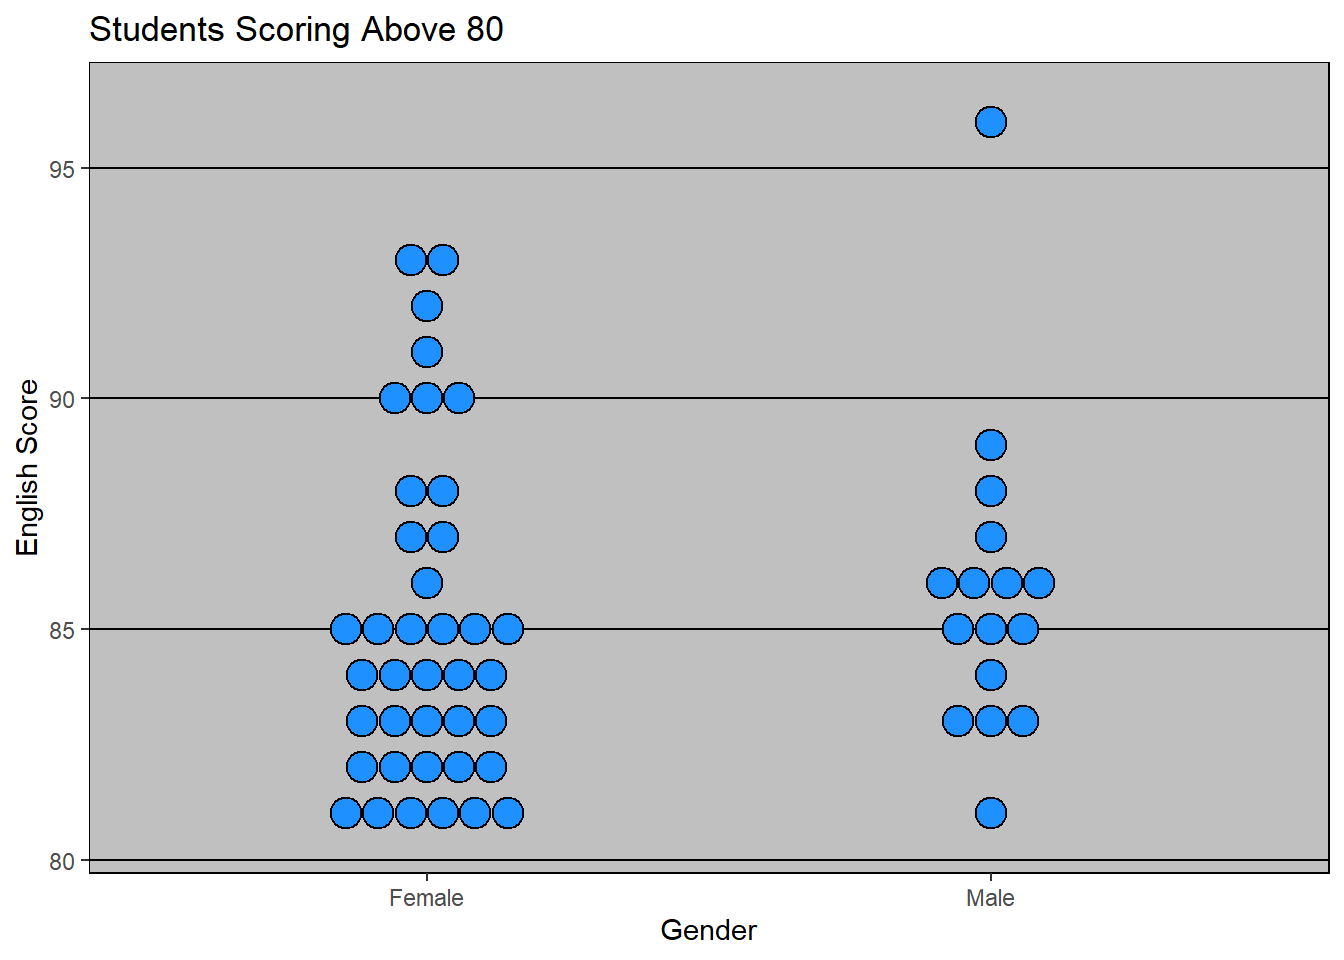
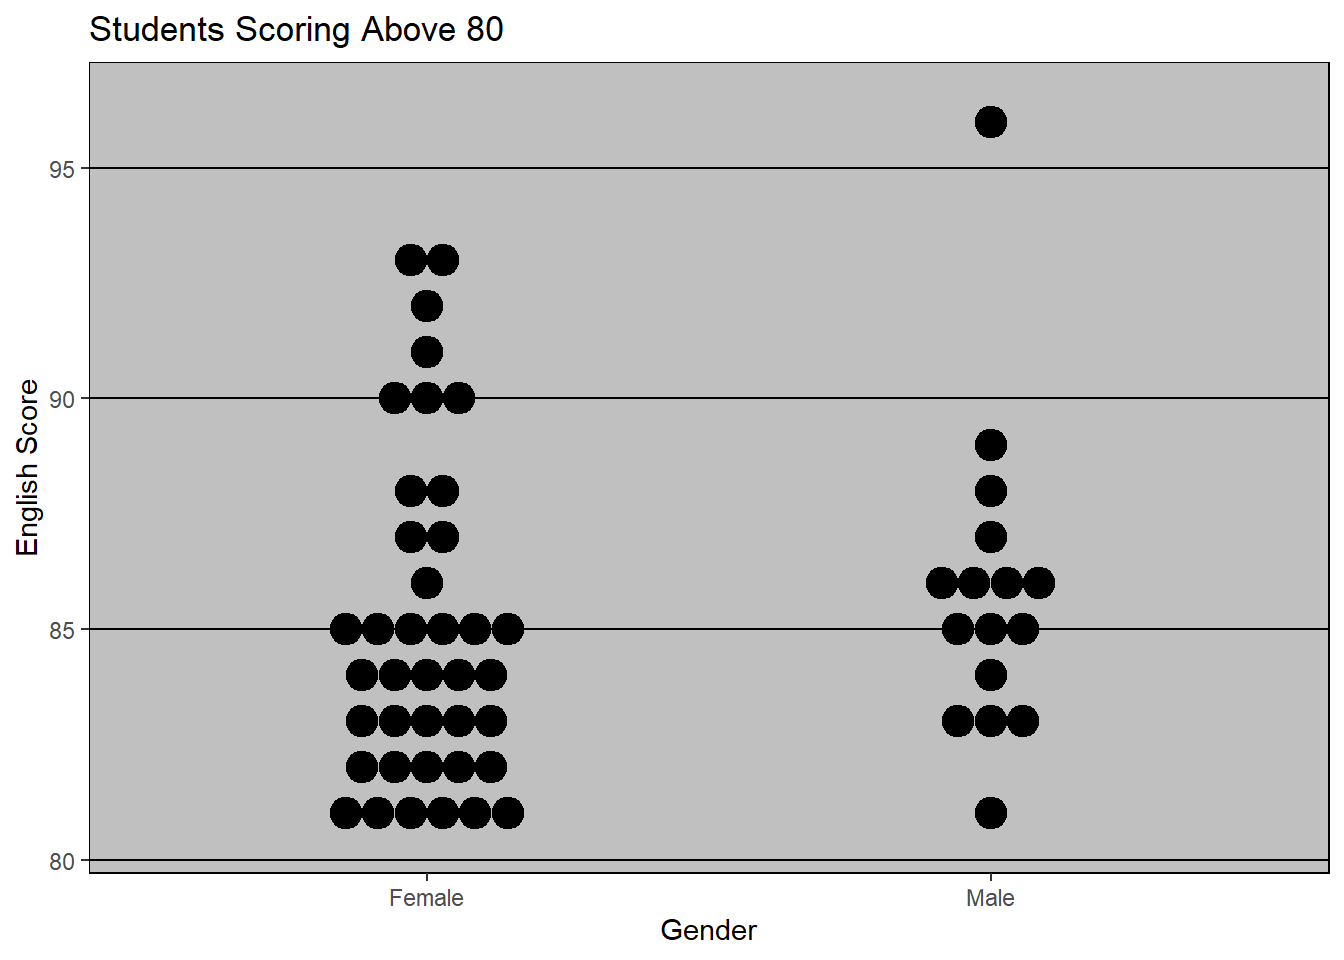
Commit after editing hands-on exercise 2

diff --git a/_site/Hands-on_Ex/Hands-on_Ex02/Hands-on_Ex02.html b/_site/Hands-on_Ex/Hands-on_Ex02/Hands-on_Ex02.html
@@ -840,7 +840,7 @@ increasing max.overlaps</code></pre>
 </section>
 <section id="dot-plot" class="level2">
 <h2 class="anchored" data-anchor-id="dot-plot">7.3. Dot Plot</h2>
-<p>I will be plotting a dot plot to compare the results between the female and male students who scored well (above 80) in English and Math. Based on using the <code>plus sign patchwork</code>package, I am able to clearly see the number of students that scored above 80 and based on the figure, it can be observed that Math has more students that scored above 80. The number of dots represent the number of students that scored above 80 for each subject respectively.</p>
+<p>I will be plotting a dot plot to compare the results between the female and male students who scored well (above 80) in English and Math. Based on using the <code>+ sign patchwork</code>package, I am able to clearly see the number of students that scored above 80 and based on the figure, it can be observed that Math has more students that scored above 80. The number of dots represent the number of students that scored above 80 for each subject respectively.</p>
 <div class="tabset-margin-container"></div><div class="panel-tabset">
 <ul class="nav nav-tabs" role="tablist"><li class="nav-item" role="presentation"><a class="nav-link active" id="tabset-7-1-tab" data-bs-toggle="tab" data-bs-target="#tabset-7-1" role="tab" aria-controls="tabset-7-1" aria-selected="true"><strong>Default Dot Plots</strong></a></li><li class="nav-item" role="presentation"><a class="nav-link" id="tabset-7-2-tab" data-bs-toggle="tab" data-bs-target="#tabset-7-2" role="tab" aria-controls="tabset-7-2" aria-selected="false">patchwork (using + sign)</a></li></ul>
 <div class="tab-content">
@@ -852,13 +852,12 @@ increasing max.overlaps</code></pre>
 <span id="cb35-4"><a href="#cb35-4" aria-hidden="true" tabindex="-1"></a>    <span class="at">binaxis =</span> <span class="st">'y'</span>, </span>
 <span id="cb35-5"><a href="#cb35-5" aria-hidden="true" tabindex="-1"></a>    <span class="at">stackdir =</span> <span class="st">'center'</span>, </span>
 <span id="cb35-6"><a href="#cb35-6" aria-hidden="true" tabindex="-1"></a>    <span class="at">dotsize =</span> <span class="fl">0.7</span>, </span>
-<span id="cb35-7"><a href="#cb35-7" aria-hidden="true" tabindex="-1"></a>    <span class="at">binwidth =</span> <span class="dv">1</span>,</span>
-<span id="cb35-8"><a href="#cb35-8" aria-hidden="true" tabindex="-1"></a>    <span class="at">fill =</span> <span class="st">"dodgerblue"</span>) <span class="sc">+</span></span>
-<span id="cb35-9"><a href="#cb35-9" aria-hidden="true" tabindex="-1"></a>  <span class="fu">labs</span>(<span class="at">title =</span> <span class="st">"Students Scoring Above 80"</span>,</span>
-<span id="cb35-10"><a href="#cb35-10" aria-hidden="true" tabindex="-1"></a>       <span class="at">x =</span> <span class="st">"Gender"</span>,</span>
-<span id="cb35-11"><a href="#cb35-11" aria-hidden="true" tabindex="-1"></a>       <span class="at">y =</span> <span class="st">"English Score"</span>) <span class="sc">+</span></span>
-<span id="cb35-12"><a href="#cb35-12" aria-hidden="true" tabindex="-1"></a>  <span class="fu">theme_excel</span>()</span>
-<span id="cb35-13"><a href="#cb35-13" aria-hidden="true" tabindex="-1"></a>e3<span class="co">#</span></span></code><button title="Copy to Clipboard" class="code-copy-button"><i class="bi"></i></button></pre></div>
+<span id="cb35-7"><a href="#cb35-7" aria-hidden="true" tabindex="-1"></a>    <span class="at">binwidth =</span> <span class="dv">1</span>) <span class="sc">+</span></span>
+<span id="cb35-8"><a href="#cb35-8" aria-hidden="true" tabindex="-1"></a>  <span class="fu">labs</span>(<span class="at">title =</span> <span class="st">"Students Scoring Above 80"</span>,</span>
+<span id="cb35-9"><a href="#cb35-9" aria-hidden="true" tabindex="-1"></a>       <span class="at">x =</span> <span class="st">"Gender"</span>,</span>
+<span id="cb35-10"><a href="#cb35-10" aria-hidden="true" tabindex="-1"></a>       <span class="at">y =</span> <span class="st">"English Score"</span>) <span class="sc">+</span></span>
+<span id="cb35-11"><a href="#cb35-11" aria-hidden="true" tabindex="-1"></a>  <span class="fu">theme_excel</span>()</span>
+<span id="cb35-12"><a href="#cb35-12" aria-hidden="true" tabindex="-1"></a>e3<span class="co">#</span></span></code><button title="Copy to Clipboard" class="code-copy-button"><i class="bi"></i></button></pre></div>
 <div class="cell-output-display">
 <div>
 <figure class="figure">
@@ -874,13 +873,12 @@ increasing max.overlaps</code></pre>
 <span id="cb36-4"><a href="#cb36-4" aria-hidden="true" tabindex="-1"></a>    <span class="at">binaxis =</span> <span class="st">'y'</span>, </span>
 <span id="cb36-5"><a href="#cb36-5" aria-hidden="true" tabindex="-1"></a>    <span class="at">stackdir =</span> <span class="st">'center'</span>, </span>
 <span id="cb36-6"><a href="#cb36-6" aria-hidden="true" tabindex="-1"></a>    <span class="at">dotsize =</span> <span class="fl">0.7</span>, </span>
-<span id="cb36-7"><a href="#cb36-7" aria-hidden="true" tabindex="-1"></a>    <span class="at">binwidth =</span> <span class="dv">1</span>,</span>
-<span id="cb36-8"><a href="#cb36-8" aria-hidden="true" tabindex="-1"></a>    <span class="at">fill =</span> <span class="st">"dodgerblue"</span>) <span class="sc">+</span></span>
-<span id="cb36-9"><a href="#cb36-9" aria-hidden="true" tabindex="-1"></a>  <span class="fu">labs</span>(<span class="at">title =</span> <span class="st">"Students Scoring Above 80"</span>,</span>
-<span id="cb36-10"><a href="#cb36-10" aria-hidden="true" tabindex="-1"></a>       <span class="at">x =</span> <span class="st">"Gender"</span>,</span>
-<span id="cb36-11"><a href="#cb36-11" aria-hidden="true" tabindex="-1"></a>       <span class="at">y =</span> <span class="st">"Math Score"</span>) <span class="sc">+</span></span>
-<span id="cb36-12"><a href="#cb36-12" aria-hidden="true" tabindex="-1"></a>  <span class="fu">theme_excel</span>()</span>
-<span id="cb36-13"><a href="#cb36-13" aria-hidden="true" tabindex="-1"></a>m3<span class="co">#</span></span></code><button title="Copy to Clipboard" class="code-copy-button"><i class="bi"></i></button></pre></div>
+<span id="cb36-7"><a href="#cb36-7" aria-hidden="true" tabindex="-1"></a>    <span class="at">binwidth =</span> <span class="dv">1</span>) <span class="sc">+</span></span>
+<span id="cb36-8"><a href="#cb36-8" aria-hidden="true" tabindex="-1"></a>  <span class="fu">labs</span>(<span class="at">title =</span> <span class="st">"Students Scoring Above 80"</span>,</span>
+<span id="cb36-9"><a href="#cb36-9" aria-hidden="true" tabindex="-1"></a>       <span class="at">x =</span> <span class="st">"Gender"</span>,</span>
+<span id="cb36-10"><a href="#cb36-10" aria-hidden="true" tabindex="-1"></a>       <span class="at">y =</span> <span class="st">"Math Score"</span>) <span class="sc">+</span></span>
+<span id="cb36-11"><a href="#cb36-11" aria-hidden="true" tabindex="-1"></a>  <span class="fu">theme_excel</span>()</span>
+<span id="cb36-12"><a href="#cb36-12" aria-hidden="true" tabindex="-1"></a>m3<span class="co">#</span></span></code><button title="Copy to Clipboard" class="code-copy-button"><i class="bi"></i></button></pre></div>
 <div class="cell-output-display">
 <div>
 <figure class="figure">
@@ -907,6 +905,129 @@ increasing max.overlaps</code></pre>
 </section>
 <section id="pie-chart-and-bar-chart" class="level2">
 <h2 class="anchored" data-anchor-id="pie-chart-and-bar-chart">7.4. Pie Chart and Bar Chart</h2>
+<div class="tabset-margin-container"></div><div class="panel-tabset">
+<ul class="nav nav-tabs" role="tablist"><li class="nav-item" role="presentation"><a class="nav-link active" id="tabset-8-1-tab" data-bs-toggle="tab" data-bs-target="#tabset-8-1" role="tab" aria-controls="tabset-8-1" aria-selected="true">Pie Chart: Number of Students based on Gender for English</a></li><li class="nav-item" role="presentation"><a class="nav-link" id="tabset-8-2-tab" data-bs-toggle="tab" data-bs-target="#tabset-8-2" role="tab" aria-controls="tabset-8-2" aria-selected="false">Bar Chart: Average English Score by Gender</a></li><li class="nav-item" role="presentation"><a class="nav-link" id="tabset-8-3-tab" data-bs-toggle="tab" data-bs-target="#tabset-8-3" role="tab" aria-controls="tabset-8-3" aria-selected="false">Patchwork (</a></li><li class="nav-item" role="presentation"><a class="nav-link" id="tabset-8-4-tab" data-bs-toggle="tab" data-bs-target="#tabset-8-4" role="tab" aria-controls="tabset-8-4" aria-selected="false">Patchwork (using insert): English score by Gender</a></li></ul>
+<div class="tab-content">
+<div id="tabset-8-1" class="tab-pane active" role="tabpanel" aria-labelledby="tabset-8-1-tab">
+<div class="cell">
+<div class="sourceCode cell-code" id="cb38"><pre class="sourceCode r code-with-copy"><code class="sourceCode r"><span id="cb38-1"><a href="#cb38-1" aria-hidden="true" tabindex="-1"></a>gender_counts <span class="ot">&lt;-</span> exam_data <span class="sc">%&gt;%</span></span>
+<span id="cb38-2"><a href="#cb38-2" aria-hidden="true" tabindex="-1"></a>  <span class="fu">group_by</span>(GENDER) <span class="sc">%&gt;%</span></span>
+<span id="cb38-3"><a href="#cb38-3" aria-hidden="true" tabindex="-1"></a>  <span class="fu">summarise</span>(<span class="at">Count =</span> <span class="fu">n</span>())</span>
+<span id="cb38-4"><a href="#cb38-4" aria-hidden="true" tabindex="-1"></a></span>
+<span id="cb38-5"><a href="#cb38-5" aria-hidden="true" tabindex="-1"></a>p1 <span class="ot">&lt;-</span> <span class="fu">ggplot</span>(gender_counts, <span class="fu">aes</span>(<span class="at">x =</span> <span class="st">""</span>, <span class="at">y =</span> Count, <span class="at">fill =</span> GENDER)) <span class="sc">+</span></span>
+<span id="cb38-6"><a href="#cb38-6" aria-hidden="true" tabindex="-1"></a>  <span class="fu">geom_bar</span>(<span class="at">stat =</span> <span class="st">"identity"</span>, <span class="at">width =</span> <span class="dv">1</span>) <span class="sc">+</span></span>
+<span id="cb38-7"><a href="#cb38-7" aria-hidden="true" tabindex="-1"></a>  <span class="fu">coord_polar</span>(<span class="at">theta =</span> <span class="st">"y"</span>) <span class="sc">+</span>  <span class="co"># This transforms the bar chart to a pie chart</span></span>
+<span id="cb38-8"><a href="#cb38-8" aria-hidden="true" tabindex="-1"></a>  <span class="fu">theme_void</span>() <span class="sc">+</span>  <span class="co"># Removes axes and background</span></span>
+<span id="cb38-9"><a href="#cb38-9" aria-hidden="true" tabindex="-1"></a>  <span class="fu">labs</span>(<span class="at">title =</span> <span class="st">"Number of Students in English"</span>) <span class="sc">+</span></span>
+<span id="cb38-10"><a href="#cb38-10" aria-hidden="true" tabindex="-1"></a>  <span class="fu">theme</span>(</span>
+<span id="cb38-11"><a href="#cb38-11" aria-hidden="true" tabindex="-1"></a>    <span class="at">plot.title =</span> <span class="fu">element_text</span>(<span class="at">size =</span> <span class="dv">9</span>),</span>
+<span id="cb38-12"><a href="#cb38-12" aria-hidden="true" tabindex="-1"></a>    <span class="at">plot.background =</span> <span class="fu">element_rect</span>(<span class="at">fill =</span> <span class="st">"white"</span>)</span>
+<span id="cb38-13"><a href="#cb38-13" aria-hidden="true" tabindex="-1"></a>  )</span>
+<span id="cb38-14"><a href="#cb38-14" aria-hidden="true" tabindex="-1"></a>p1<span class="co">#</span></span></code><button title="Copy to Clipboard" class="code-copy-button"><i class="bi"></i></button></pre></div>
+<div class="cell-output-display">
+<div>
+<figure class="figure">
+<p><img src="Hands-on_Ex02_files/figure-html/unnamed-chunk-26-1.png" class="img-fluid figure-img" width="672"></p>
+</figure>
+</div>
+</div>
+</div>
+</div>
+<div id="tabset-8-2" class="tab-pane" role="tabpanel" aria-labelledby="tabset-8-2-tab">
+<div class="cell">
+<div class="sourceCode cell-code" id="cb39"><pre class="sourceCode r code-with-copy"><code class="sourceCode r"><span id="cb39-1"><a href="#cb39-1" aria-hidden="true" tabindex="-1"></a>avg_english <span class="ot">&lt;-</span> exam_data <span class="sc">%&gt;%</span></span>
+<span id="cb39-2"><a href="#cb39-2" aria-hidden="true" tabindex="-1"></a>  <span class="fu">group_by</span>(GENDER) <span class="sc">%&gt;%</span></span>
+<span id="cb39-3"><a href="#cb39-3" aria-hidden="true" tabindex="-1"></a>  <span class="fu">summarise</span>(<span class="at">Avg_English =</span> <span class="fu">mean</span>(ENGLISH))</span>
+<span id="cb39-4"><a href="#cb39-4" aria-hidden="true" tabindex="-1"></a></span>
+<span id="cb39-5"><a href="#cb39-5" aria-hidden="true" tabindex="-1"></a><span class="co"># Plot</span></span>
+<span id="cb39-6"><a href="#cb39-6" aria-hidden="true" tabindex="-1"></a>a1 <span class="ot">&lt;-</span> <span class="fu">ggplot</span>(avg_english, <span class="fu">aes</span>(<span class="at">x =</span> GENDER, <span class="at">y =</span> Avg_English)) <span class="sc">+</span></span>
+<span id="cb39-7"><a href="#cb39-7" aria-hidden="true" tabindex="-1"></a>  <span class="fu">geom_bar</span>(<span class="at">stat =</span> <span class="st">"identity"</span>) <span class="sc">+</span></span>
+<span id="cb39-8"><a href="#cb39-8" aria-hidden="true" tabindex="-1"></a>  <span class="fu">labs</span>(<span class="at">title =</span> <span class="st">"Average English Score by Gender"</span>,</span>
+<span id="cb39-9"><a href="#cb39-9" aria-hidden="true" tabindex="-1"></a>       <span class="at">x =</span> <span class="st">"Gender"</span>,</span>
+<span id="cb39-10"><a href="#cb39-10" aria-hidden="true" tabindex="-1"></a>       <span class="at">y =</span> <span class="st">"Average Score"</span>) <span class="sc">+</span></span>
+<span id="cb39-11"><a href="#cb39-11" aria-hidden="true" tabindex="-1"></a>  <span class="fu">theme_excel</span>()</span>
+<span id="cb39-12"><a href="#cb39-12" aria-hidden="true" tabindex="-1"></a>a1<span class="co">#</span></span></code><button title="Copy to Clipboard" class="code-copy-button"><i class="bi"></i></button></pre></div>
+<div class="cell-output-display">
+<div>
+<figure class="figure">
+<p><img src="Hands-on_Ex02_files/figure-html/unnamed-chunk-27-1.png" class="img-fluid figure-img" width="672"></p>
+</figure>
+</div>
+</div>
+</div>
+<div class="cell">
+<div class="sourceCode cell-code" id="cb40"><pre class="sourceCode r code-with-copy"><code class="sourceCode r"><span id="cb40-1"><a href="#cb40-1" aria-hidden="true" tabindex="-1"></a>avg_maths <span class="ot">&lt;-</span> exam_data <span class="sc">%&gt;%</span></span>
+<span id="cb40-2"><a href="#cb40-2" aria-hidden="true" tabindex="-1"></a>  <span class="fu">group_by</span>(GENDER) <span class="sc">%&gt;%</span></span>
+<span id="cb40-3"><a href="#cb40-3" aria-hidden="true" tabindex="-1"></a>  <span class="fu">summarise</span>(<span class="at">Avg_Maths =</span> <span class="fu">mean</span>(MATHS))</span>
+<span id="cb40-4"><a href="#cb40-4" aria-hidden="true" tabindex="-1"></a></span>
+<span id="cb40-5"><a href="#cb40-5" aria-hidden="true" tabindex="-1"></a><span class="co"># Plot</span></span>
+<span id="cb40-6"><a href="#cb40-6" aria-hidden="true" tabindex="-1"></a>a2 <span class="ot">&lt;-</span> <span class="fu">ggplot</span>(avg_maths, <span class="fu">aes</span>(<span class="at">x =</span> GENDER, <span class="at">y =</span> Avg_Maths)) <span class="sc">+</span></span>
+<span id="cb40-7"><a href="#cb40-7" aria-hidden="true" tabindex="-1"></a>  <span class="fu">geom_bar</span>(<span class="at">stat =</span> <span class="st">"identity"</span>) <span class="sc">+</span></span>
+<span id="cb40-8"><a href="#cb40-8" aria-hidden="true" tabindex="-1"></a>  <span class="fu">labs</span>(<span class="at">title =</span> <span class="st">"Average Maths Score by Gender"</span>,</span>
+<span id="cb40-9"><a href="#cb40-9" aria-hidden="true" tabindex="-1"></a>       <span class="at">x =</span> <span class="st">"Gender"</span>,</span>
+<span id="cb40-10"><a href="#cb40-10" aria-hidden="true" tabindex="-1"></a>       <span class="at">y =</span> <span class="st">"Average Score"</span>) <span class="sc">+</span></span>
+<span id="cb40-11"><a href="#cb40-11" aria-hidden="true" tabindex="-1"></a>  <span class="fu">theme_excel</span>()</span>
+<span id="cb40-12"><a href="#cb40-12" aria-hidden="true" tabindex="-1"></a>a2<span class="co">#</span></span></code><button title="Copy to Clipboard" class="code-copy-button"><i class="bi"></i></button></pre></div>
+<div class="cell-output-display">
+<div>
+<figure class="figure">
+<p><img src="Hands-on_Ex02_files/figure-html/unnamed-chunk-28-1.png" class="img-fluid figure-img" width="672"></p>
+</figure>
+</div>
+</div>
+</div>
+<div class="cell">
+<div class="sourceCode cell-code" id="cb41"><pre class="sourceCode r code-with-copy"><code class="sourceCode r"><span id="cb41-1"><a href="#cb41-1" aria-hidden="true" tabindex="-1"></a>avg_science <span class="ot">&lt;-</span> exam_data <span class="sc">%&gt;%</span></span>
+<span id="cb41-2"><a href="#cb41-2" aria-hidden="true" tabindex="-1"></a>  <span class="fu">group_by</span>(GENDER) <span class="sc">%&gt;%</span></span>
+<span id="cb41-3"><a href="#cb41-3" aria-hidden="true" tabindex="-1"></a>  <span class="fu">summarise</span>(<span class="at">Avg_Science =</span> <span class="fu">mean</span>(SCIENCE))</span>
+<span id="cb41-4"><a href="#cb41-4" aria-hidden="true" tabindex="-1"></a></span>
+<span id="cb41-5"><a href="#cb41-5" aria-hidden="true" tabindex="-1"></a><span class="co"># Plot</span></span>
+<span id="cb41-6"><a href="#cb41-6" aria-hidden="true" tabindex="-1"></a>a3 <span class="ot">&lt;-</span> <span class="fu">ggplot</span>(avg_science, <span class="fu">aes</span>(<span class="at">x =</span> GENDER, <span class="at">y =</span> Avg_Science)) <span class="sc">+</span></span>
+<span id="cb41-7"><a href="#cb41-7" aria-hidden="true" tabindex="-1"></a>  <span class="fu">geom_bar</span>(<span class="at">stat =</span> <span class="st">"identity"</span>) <span class="sc">+</span></span>
+<span id="cb41-8"><a href="#cb41-8" aria-hidden="true" tabindex="-1"></a>  <span class="fu">labs</span>(<span class="at">title =</span> <span class="st">"Average Science Score by Gender"</span>,</span>
+<span id="cb41-9"><a href="#cb41-9" aria-hidden="true" tabindex="-1"></a>       <span class="at">x =</span> <span class="st">"Gender"</span>,</span>
+<span id="cb41-10"><a href="#cb41-10" aria-hidden="true" tabindex="-1"></a>       <span class="at">y =</span> <span class="st">"Average Score"</span>) <span class="sc">+</span></span>
+<span id="cb41-11"><a href="#cb41-11" aria-hidden="true" tabindex="-1"></a>  <span class="fu">theme_excel</span>()</span>
+<span id="cb41-12"><a href="#cb41-12" aria-hidden="true" tabindex="-1"></a>a3<span class="co">#</span></span></code><button title="Copy to Clipboard" class="code-copy-button"><i class="bi"></i></button></pre></div>
+<div class="cell-output-display">
+<div>
+<figure class="figure">
+<p><img src="Hands-on_Ex02_files/figure-html/unnamed-chunk-29-1.png" class="img-fluid figure-img" width="672"></p>
+</figure>
+</div>
+</div>
+</div>
+</div>
+<div id="tabset-8-3" class="tab-pane" role="tabpanel" aria-labelledby="tabset-8-3-tab">
+<div class="cell">
+<div class="sourceCode cell-code" id="cb42"><pre class="sourceCode r code-with-copy"><code class="sourceCode r"><span id="cb42-1"><a href="#cb42-1" aria-hidden="true" tabindex="-1"></a>a1<span class="sc">/</span>a2<span class="sc">|</span>a3</span></code><button title="Copy to Clipboard" class="code-copy-button"><i class="bi"></i></button></pre></div>
+<div class="cell-output-display">
+<div>
+<figure class="figure">
+<p><img src="Hands-on_Ex02_files/figure-html/unnamed-chunk-30-1.png" class="img-fluid figure-img" width="672"></p>
+</figure>
+</div>
+</div>
+</div>
+</div>
+<div id="tabset-8-4" class="tab-pane" role="tabpanel" aria-labelledby="tabset-8-4-tab">
+<div class="cell">
+<div class="sourceCode cell-code" id="cb43"><pre class="sourceCode r code-with-copy"><code class="sourceCode r"><span id="cb43-1"><a href="#cb43-1" aria-hidden="true" tabindex="-1"></a>a1 <span class="sc">+</span> <span class="fu">inset_element</span>(p1, </span>
+<span id="cb43-2"><a href="#cb43-2" aria-hidden="true" tabindex="-1"></a>                   <span class="at">left =</span> <span class="fl">0.7</span>,    </span>
+<span id="cb43-3"><a href="#cb43-3" aria-hidden="true" tabindex="-1"></a>                   <span class="at">bottom =</span> <span class="dv">0</span>,    </span>
+<span id="cb43-4"><a href="#cb43-4" aria-hidden="true" tabindex="-1"></a>                   <span class="at">right =</span> <span class="dv">1</span>,     </span>
+<span id="cb43-5"><a href="#cb43-5" aria-hidden="true" tabindex="-1"></a>                   <span class="at">top =</span> <span class="fl">0.3</span>)     </span></code><button title="Copy to Clipboard" class="code-copy-button"><i class="bi"></i></button></pre></div>
+<div class="cell-output-display">
+<div>
+<figure class="figure">
+<p><img src="Hands-on_Ex02_files/figure-html/unnamed-chunk-31-1.png" class="img-fluid figure-img" width="672"></p>
+</figure>
+</div>
+</div>
+</div>
+</div>
+</div>
+</div>
 </section>
 <section id="raincloud-plot" class="level2">
 <h2 class="anchored" data-anchor-id="raincloud-plot">7.5. Raincloud Plot</h2>
